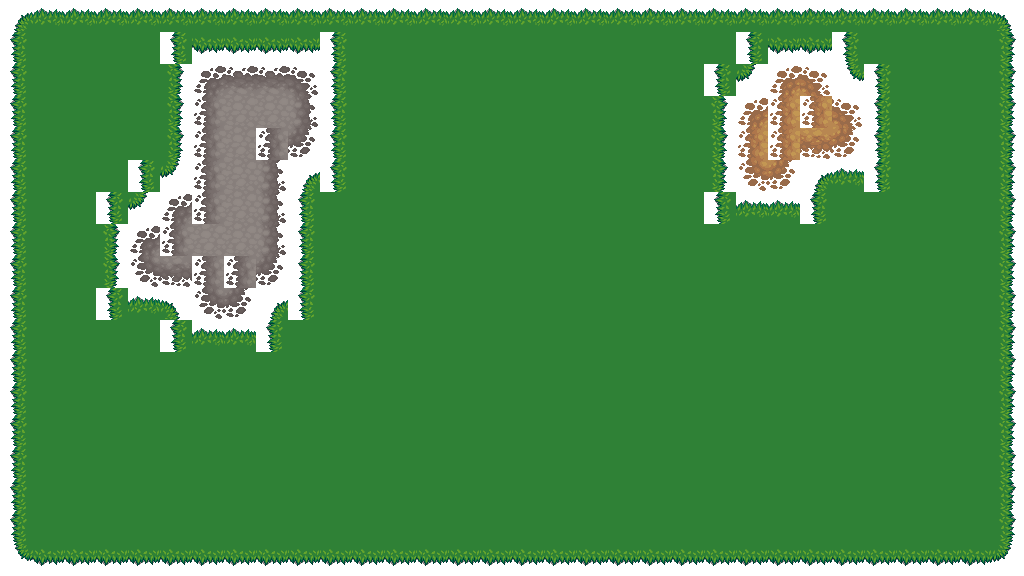
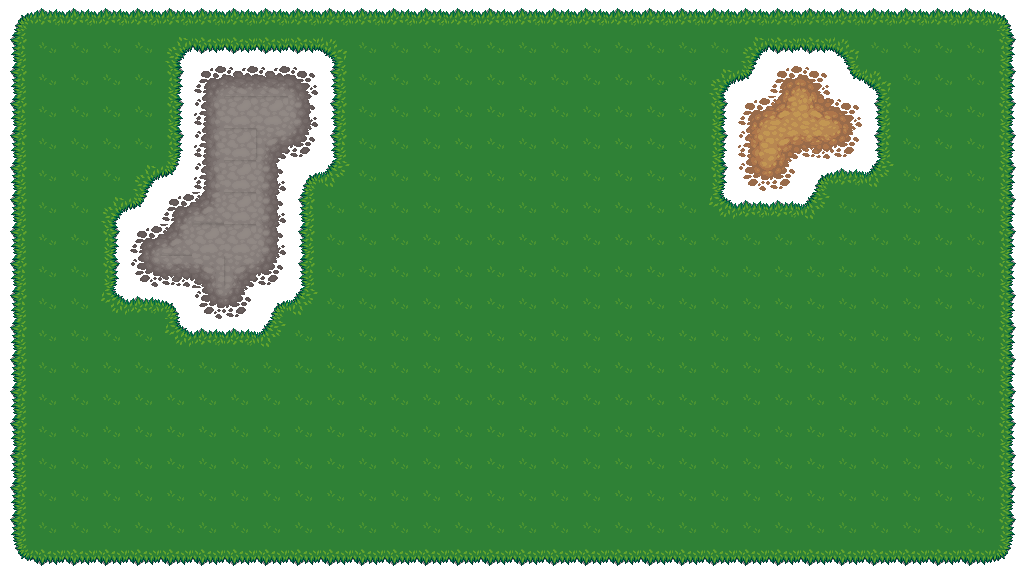
Map Generator 90% done

diff --git a/mapGen.py b/mapGen.py
@@ -53,15 +53,17 @@ class Tile():
     def getImg(self, around):
         # 1110 1111
         #&0001 0000
-        printNow(not around & upAndRight)
-        if not around ^ allRound: return self.tileArr[9]
-        if not around ^ upAndRight: return self.tileArr[7]
-        if not around ^ upAndLeft: return self.tileArr[13]
-        if not around ^ downAndRight: return self.tileArr[6]
-        if not around ^ downAndLeft: return self.tileArr[12]
+        #printNow(not around & upAndRight)
+        if not around ^ allRound: return self.tileArr[17]
         if around & up:
             if around & right:
-                if around & down: return self.tileArr[3]
+                if around & down:
+                    if around & left:
+                        if not around & upAndRight: return self.tileArr[7]
+                        if not around & upAndLeft: return self.tileArr[13]
+                        if not around & downAndRight: return self.tileArr[6]
+                        if not around & downAndLeft: return self.tileArr[12]
+                    return self.tileArr[3]
                 if around & left: return self.tileArr[10]
                 return self.tileArr[4]
             if around & left:
@@ -131,7 +133,7 @@ class Map():
         starty = ((spot * bits) / backWidth) * bits
         #printNow(spot)
         self.tileMap.update({spot: tex})
-        printNow(around)
+        #printNow(around)
         img = tex.getImg(around)
         for x in range(0, bits):
             for y in range(0, bits):
@@ -168,10 +170,10 @@ class Map():
 
 
     def isTraversable(self, spot):
-        printNow(spot)
+        #printNow(spot)
         if spot < 0 or spot > len(self.tileMap) - 1: return false
-        printNow(self.tileMap[spot].getTraversable())
-        printNow(self.tileMap[spot].getDesc())
+        #printNow(self.tileMap[spot].getTraversable())
+        #printNow(self.tileMap[spot].getDesc())
         return self.tileMap[spot].getTraversable()
 
 
@@ -190,7 +192,7 @@ def tileMapToArr(tileMap):
                     setColor(getPixel(tile, x, y), getColor(getPixel(tileMap, x + startx * bits, y + starty * bits)))
             #explore(tile)
             tileArr.append(tile)
-    printNow(len(tileArr))
+    #printNow(len(tileArr))
     return tileArr
 
 
